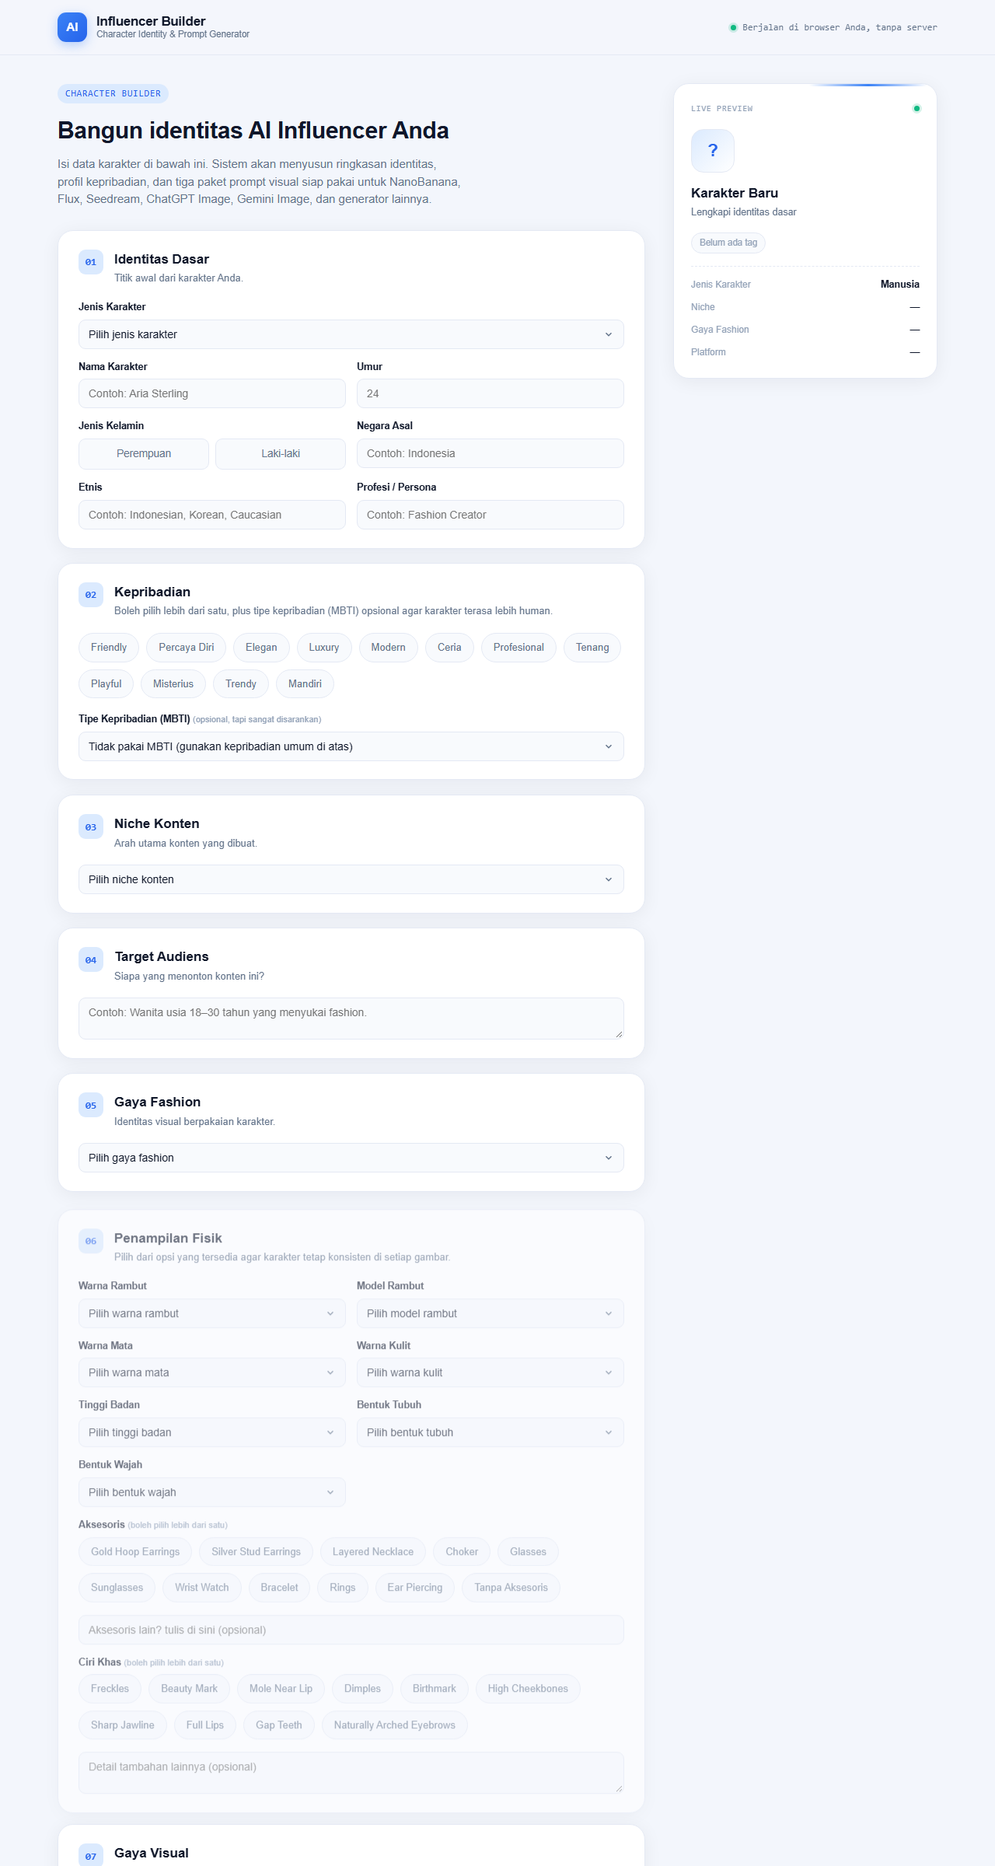
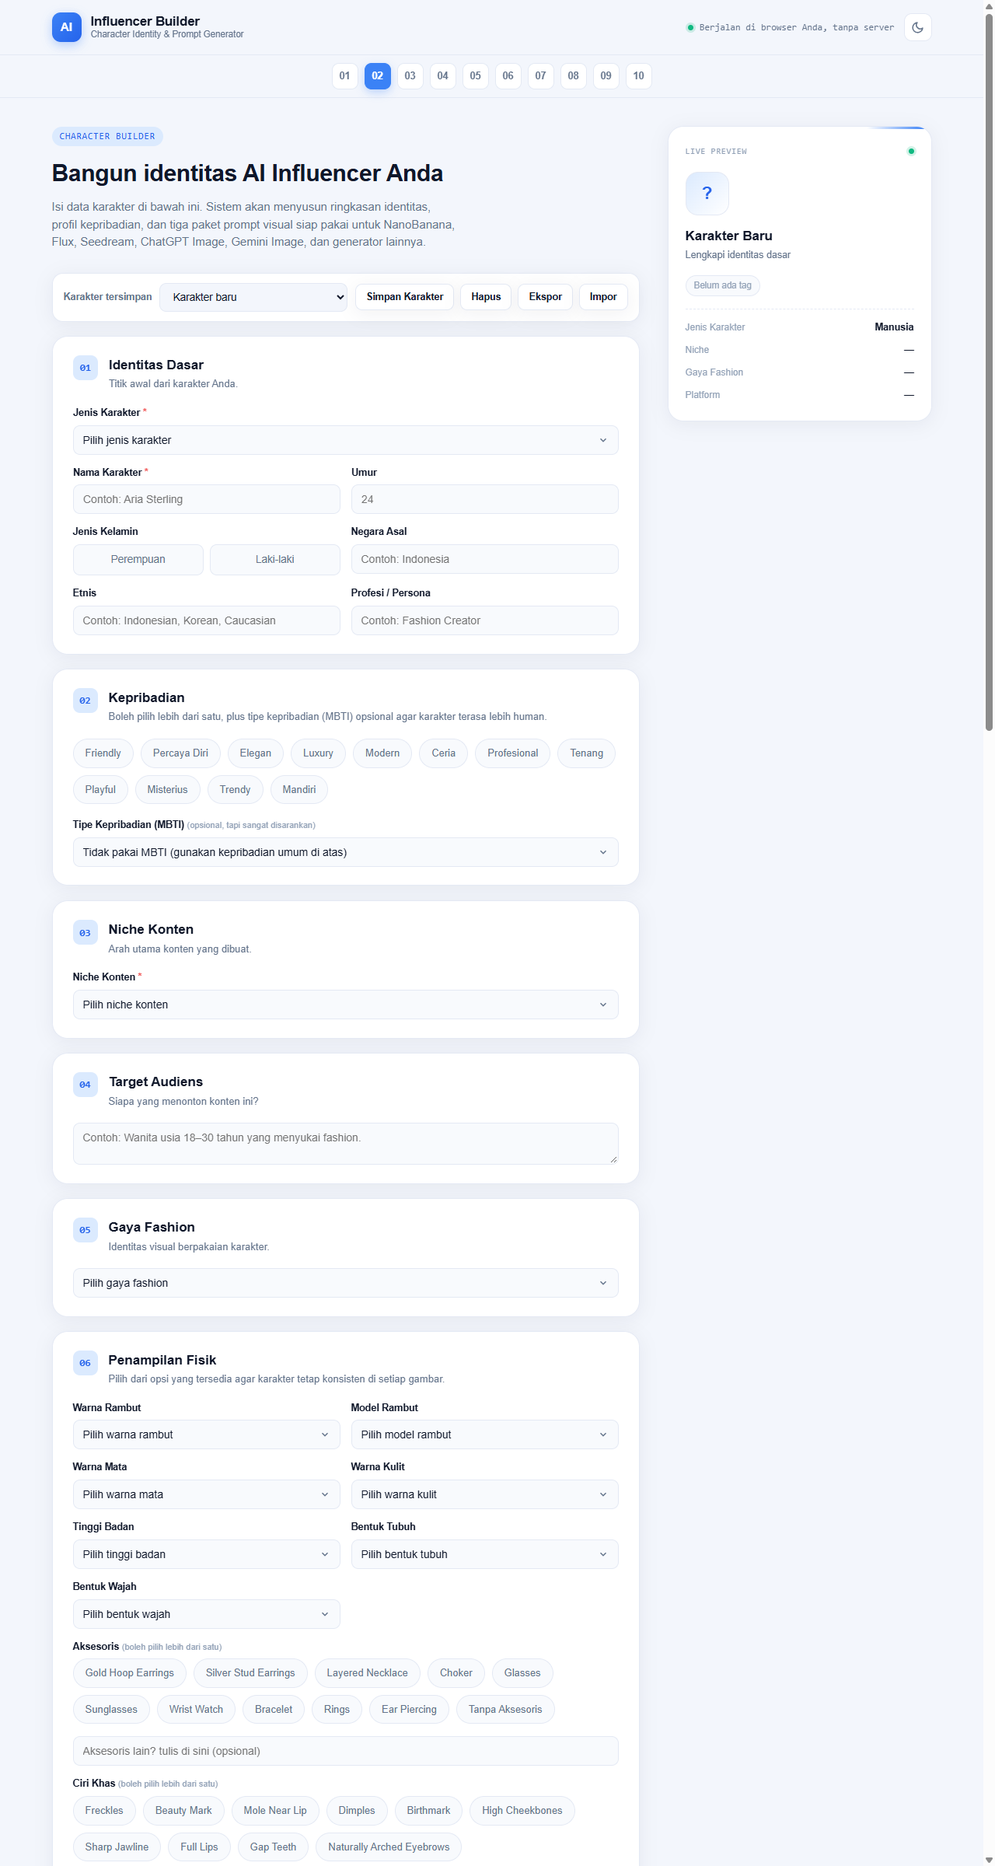
feat: UI/UX improvements - autosave, validation, navigation, dark mode, profiles

diff --git a/docs/superpowers/plans/2026-11-25-ui-ux-improvements.md b/docs/superpowers/plans/2026-11-25-ui-ux-improvements.md
@@ -1,0 +1,270 @@
+# UI/UX Improvements Implementation Plan
+
+> **For agentic workers:** REQUIRED SUB-SKILL: Use superpowers:subagent-driven-development (recommended) or superpowers:executing-plans to implement this plan task-by-task. Steps use checkbox (`- [ ]`) syntax for tracking.
+
+**Goal:** Add autosave+reset, validation, section navigation, dark mode, and multi-character profiles to the single-file `index.html` app.
+
+**Architecture:** Patch `index.html` in place: one `AIB` namespace in the existing inline script, small HTML additions (Reset button, step bar, mobile nav, profile bar, theme toggle), CSS variable overrides for dark mode. Tests live in a new `tests.html` that loads `index.html` in an iframe and asserts against its DOM/localStorage; run headless Chrome with `--dump-dom`.
+
+**Tech Stack:** Vanilla HTML/CSS/JS in one file. No framework, no npm, no build step. Tests: headless Chrome only.
+
+**Spec:** `docs/superpowers/specs/2026-11-25-ui-ux-improvements-design.md`
+
+## Global Constraints
+
+- Single `index.html`; must run from `file://` (fonts from `./AI Influencer Builder_files/`). No modules, no fetch of local files without `--allow-file-access-from-files`.
+- Test command (all tasks): `& 'C:\Program Files\Google\Chrome\Application\chrome.exe' --headless --allow-file-access-from-files --dump-dom file:///C:/Users/david/AIInfluencerBuilder/tests.html` — pass = output contains `ALL PASS`, fail = a `FAIL ` line.
+- Storage keys verbatim: `aib_state_v1`, `aib_current_profile`, `aib_profiles_v1`, `aib_theme`.
+- Autosave debounce: 400 ms.
+- Required fields verbatim: `#charName`, `#charTypeSelect`, `#nicheSelect`.
+- Existing selectors kept: `#builderForm`, `#generateBtn`, `.form-section` (ids `section1`..`section10`), `#resultsSection`, `#previewName`.
+- UI copy Indonesian. Every storage write wrapped so a throw shows one toast (`Autosave tidak tersedia di browser ini`) and disables that feature for the session — never breaks the page.
+- `AIB` namespace (single global object) holds all new functions; existing functions untouched except where a step names them.
+
+## Review Focus
+
+1. **localStorage unavailable (private mode)** — autosave/profiles must degrade with one toast, page fully usable. Test in Task 2 (`autosave: storage failure degrades, no throw`).
+2. **Section 06 hidden for non-human characters** — step bar must skip it and count visible sections only. Test in Task 4 (`nav: hidden section 06 skipped, count is 9`).
+3. **Profile switch must flush current edits, and reload restores working state over profile snapshot** — data-loss risk. Tests in Task 6 (`profile: switch flushes edits` and `profile: reload restores working state`).
+4. **Reset must never delete saved profiles** — destructive action. Test in Task 2 (`reset: keeps saved profiles`).
+5. **Dark mode freezes at user choice after toggle** — no longer follows system. Test in Task 5 (`theme: choice persists across reload, system light ignored`).
+
+---
+
+### Task 1: Test harness
+
+**Files:**
+- Create: `tests.html`
+
+**Interfaces:**
+- Produces: test API used by every later task — `t(name, fn)` registers a test (fn may return a Promise), `assert(cond, msg)`, `assertEq(actual, expected, msg)`, `withFreshPage(fn)` reloads the `index.html` iframe and runs `fn(iframeWindow)` after `AIB` is ready. Runner writes one line per test to `#results` (`PASS <name>` / `FAIL <name>: <msg>`), then `ALL PASS (n)` or `FAILURES (n)`.
+
+- [ ] **Step 1: Write `tests.html`**
+
+Iframe `src="index.html"`, poll until `iframe.contentWindow.AIB && iframe.contentWindow.document.readyState === 'complete'`, then run registered tests sequentially in the iframe's window context. One smoke test: `t('smoke: page loads with form', ...)` asserting `iframe.contentWindow.document.querySelector('#builderForm')` and `#generateBtn` exist.
+
+- [ ] **Step 2: Run harness**
+
+Run the Global Constraints test command. Expected: `ALL PASS (1)`.
+
+- [ ] **Step 3: Commit**
+
+```bash
+git add tests.html
+git commit -m "test: add browser test harness"
+```
+
+---
+
+### Task 2: Autosave + Reset
+
+**Files:**
+- Modify: `index.html` (inline `<script>` after `init()`, form header markup, CSS)
+- Test: `tests.html`
+
+**Interfaces:**
+- Produces (all on global `AIB`): `AIB.getState()` → object|null, `AIB.setState(state)` → void, `AIB.saveState()` → void (immediate write of current form to `aib_state_v1`), `AIB.scheduleSave()` → void (400 ms debounce), `AIB.resetForm()` → void (clears form controls to defaults, removes `aib_state_v1`, clears output card bodies, hides `#resultsSection`). Reset button id `resetBtn`, placed in the form header next to `#generateBtn`.
+
+- [ ] **Step 1: Write failing tests in `tests.html`**
+
+- `autosave: input writes aib_state_v1 after debounce` — set `#charName` value in iframe, wait 600 ms, assert `localStorage.getItem('aib_state_v1')` contains that value.
+- `autosave: reload restores state` — `withFreshPage`: set `#charName`, wait 600 ms, `withFreshPage` again, assert input value restored and preview name updated.
+- `reset: clears form, state key, and outputs` — set `#charName`, save state, click `#resetBtn` (confirm stubbed to return true), assert input empty, `localStorage.getItem('aib_state_v1')` null, output card `pre` bodies empty.
+- `reset: keeps saved profiles` — write a profile object to `aib_profiles_v1`, click `#resetBtn`, assert profile still present in `aib_profiles_v1`.
+- `autosave: storage failure degrades, no throw` — replace `Storage.prototype.setItem` with a thrower in the iframe, type into `#charName`, assert no exception escapes and the toast element is visible exactly once.
+
+- [ ] **Step 2: Run tests to verify they fail**
+
+Run test command. Expected: `FAIL autosave: ...` lines (AIB/state functions undefined).
+
+- [ ] **Step 3: Implement in `index.html`**
+
+Add `AIB` namespace with the five functions; wire `input`/`change` listeners on `#builderForm` → `AIB.scheduleSave()`; call `AIB.setState(...)` restore inside existing `init()` before `updateLivePreview()`; add `#resetBtn` markup + `confirm()` + toast; wrap `localStorage.setItem` in a try/catch that toasts once and sets a session flag disabling further saves.
+
+- [ ] **Step 4: Run tests to verify they pass**
+
+Run test command. Expected: `ALL PASS` including the five new tests.
+
+- [ ] **Step 5: Commit**
+
+```bash
+git add index.html tests.html
+git commit -m "feat: add autosave and reset"
+```
+
+---
+
+### Task 3: Validation
+
+**Files:**
+- Modify: `index.html` (`#generateBtn` click path, field markup, CSS)
+- Test: `tests.html`
+
+**Interfaces:**
+- Produces: `AIB.validate()` → `{ok: boolean, firstInvalid: HTMLElement|null}`. Error elements: `<p class="field-error" id="charNameError">`, `charTypeError`, `nicheError` (empty, `hidden` by default). Required fields get `aria-required="true"` and a `*` in their `<label>`.
+
+- [ ] **Step 1: Write failing tests**
+
+- `validation: required markers present` — `#charName`, `#charTypeSelect`, `#nicheSelect` each have `aria-required="true"` and a visible `*` in the associated label.
+- `validation: empty required blocks generate` — clear all three, stub `confirm`, click `#generateBtn`, assert `#charNameError` visible, `#charName` is `document.activeElement`, `#resultsSection` unchanged (its textContent equals before-click snapshot).
+- `validation: error clears on input` — after the failing case, type into `#charName`, assert `#charNameError` hidden.
+- `validation: valid form passes` — fill the three fields, assert `AIB.validate().ok === true` and `firstInvalid === null`.
+
+- [ ] **Step 2: Run tests to verify they fail**
+
+Expected: marker/behavior FAILs.
+
+- [ ] **Step 3: Implement in `index.html`**
+
+Add `*` + `aria-required` to the three labels; add the three error `<p>` elements after their fields; add `AIB.validate()`; prepend a check to the existing `#generateBtn` click handler: if `!AIB.validate().ok` → focus `firstInvalid`, show its error, toast `Lengkapi field wajib dulu`, and return without generating; clear error on `input` in the field.
+
+- [ ] **Step 4: Run tests to verify they pass**
+
+Expected: `ALL PASS`.
+
+- [ ] **Step 5: Commit**
+
+```bash
+git add index.html tests.html
+git commit -m "feat: add required-field validation"
+```
+
+---
+
+### Task 4: Section navigation
+
+**Files:**
+- Modify: `index.html` (markup after `.site-header`, CSS, JS)
+- Test: `tests.html`
+
+**Interfaces:**
+- Produces: `AIB.visibleSections()` → `HTMLElement[]` (`.form-section` without `.hidden`); `AIB.initSectionNav()` → void. Markup: `<nav class="step-bar" id="stepBar">` with one `<button class="step-pill" data-target="sectionN">NN</button>` per visible section, inserted after `.site-header`; `<div class="mobile-nav" id="mobileNav">` with `#prevSectionBtn`, `#nextSectionBtn`, `#sectionCount` (text `Bagian N dari M`), fixed bottom, shown only under 600 px.
+
+- [ ] **Step 1: Write failing tests**
+
+- `nav: pill count equals visible sections` — default (human) → 10 pills, `#sectionCount` text `Bagian 1 dari 10`.
+- `nav: hidden section 06 skipped, count is 9` — set `#charTypeSelect` to a non-human value (the value that triggers `section6` hidden), assert 9 pills, no pill with `data-target="section6"`, count text `dari 9`.
+- `nav: click pill scrolls and activates` — click pill for `section3`, assert active class on that pill and `#section3` bounding rect top within 120 px of viewport top after scroll settles.
+- `nav: prev/next move between sections` — click `#nextSectionBtn`, assert active target advances by one and count text updates.
+
+- [ ] **Step 2: Run tests to verify they fail**
+
+Expected: no `#stepBar` → FAILs.
+
+- [ ] **Step 3: Implement in `index.html`**
+
+Build pills from `AIB.visibleSections()`; IntersectionObserver (rootMargin `-40% 0px -55% 0px`) sets `.active`; pill click → `scrollIntoView({behavior:'smooth', block:'start'})`; prev/next clamp at ends and update `#sectionCount`; re-run pill build when character type changes (hook the existing type-change path that toggles `section6`).
+
+- [ ] **Step 4: Run tests to verify they pass**
+
+Expected: `ALL PASS`.
+
+- [ ] **Step 5: Commit**
+
+```bash
+git add index.html tests.html
+git commit -m "feat: add section step navigation"
+```
+
+---
+
+### Task 5: Dark mode
+
+**Files:**
+- Modify: `index.html` (header markup, CSS `[data-theme=dark]` overrides, JS)
+- Test: `tests.html`
+
+**Interfaces:**
+- Produces: `AIB.toggleTheme()` → void; `AIB.currentTheme()` → `'light'|'dark'`. Header button `#themeToggle` with sun/moon SVG. `data-theme` on `<html>`. Key `aib_theme`.
+
+- [ ] **Step 1: Write failing tests**
+
+- `theme: first visit matches system` — delete `aib_theme`, reload, assert `document.documentElement.dataset.theme` equals (`matchMedia('(prefers-color-scheme: dark)').matches ? 'dark' : 'light'`).
+- `theme: toggle sets dark and persists` — click `#themeToggle`, assert `data-theme="dark"` and `localStorage.aib_theme === 'dark'`.
+- `theme: choice persists across reload, system light ignored` — with `aib_theme='dark'` set, `withFreshPage`, assert `data-theme` still `dark` (headless default is light).
+- `theme: dark palette applied` — in dark, assert computed `background-color` of `body` differs from the light value and `--ink` variable resolves to the dark hex.
+
+- [ ] **Step 2: Run tests to verify they fail**
+
+Expected: FAILs (no `data-theme` logic yet).
+
+- [ ] **Step 3: Implement in `index.html`**
+
+On load: `aib_theme` if present, else `matchMedia` result, write to `<html data-theme>`; register a `matchMedia('(prefers-color-scheme: dark)').change` listener that only applies while `aib_theme` is absent; `#themeToggle` flips theme, persists, updates icon; add `[data-theme=dark]{...}` CSS variable overrides for `--bg`, `--surface`, `--surface-alt`, `--ink`, `--ink-muted`, `--ink-faint`, `--border`, `--shadow`, plus header background rgba.
+
+- [ ] **Step 4: Run tests to verify they pass**
+
+Expected: `ALL PASS`.
+
+- [ ] **Step 5: Commit**
+
+```bash
+git add index.html tests.html
+git commit -m "feat: add dark mode toggle"
+```
+
+---
+
+### Task 6: Multi-character profiles
+
+**Files:**
+- Modify: `index.html` (profile bar markup above `#builderForm`, CSS, JS)
+- Test: `tests.html`
+
+**Interfaces:**
+- Produces: `AIB.profiles.list()` → `[{id,name,savedAt,state}]`; `AIB.profiles.saveNew(name)` → profile (duplicates current form state, sets `aib_current_profile`); `AIB.profiles.load(id)` → void (flush current via `AIB.saveState()` first, set state into form, set `aib_current_profile`); `AIB.profiles.remove(id)` → void; `AIB.profiles.exportJSON()` → string; `AIB.profiles.importJSON(text)` → `{added:number, updated:number}`. Markup: `#profileBar` above the form with `#profileSelect`, `#saveProfileBtn`, `#deleteProfileBtn`, `#exportProfileBtn`, `#importProfileBtn` + hidden `<input type="file" id="importFile" accept=".json">`. Auto-update: the same debounced save writes into the active profile's `state` when `aib_current_profile` is set.
+
+- [ ] **Step 1: Write failing tests**
+
+- `profile: save new creates profile and activates it` — set `#charName='Aria'`, click `#saveProfileBtn` (prompt stub returns 'Aria'), assert one profile in `aib_profiles_v1` with `state` containing `Aria`, `aib_current_profile` set, `#profileSelect` shows it.
+- `profile: switch flushes edits` — save profile A, edit `#charName='Beta'`, switch to profile B (create second first), switch back to A, assert A's stored state has `Beta`.
+- `profile: reload restores working state` — with `aib_state_v1` containing `Gamma` and an active profile whose state differs, `withFreshPage`, assert form shows `Gamma`.
+- `profile: export/import round-trip` — `exportJSON()` parses to an array of 2; `importJSON` of a payload with one new + one existing id returns `{added:1, updated:1}` and storage holds 3 (or 2 updated) — assert exact counts from the test's own fixture.
+- `profile: delete removes only that profile` — two profiles, delete one, assert the other intact and `aib_current_profile` cleared if it pointed at the deleted one.
+
+- [ ] **Step 2: Run tests to verify they fail**
+
+Expected: FAILs (`AIB.profiles` undefined).
+
+- [ ] **Step 3: Implement in `index.html`**
+
+Implement the six `AIB.profiles` functions on top of `AIB.getState()`/`AIB.setState()` from Task 2; extend the debounced save to also write the active profile's `state`; render `#profileBar`; wire buttons (`prompt()` for new-profile name, `confirm()` for delete, `Blob`+`URL.createObjectURL` for export, `FileReader` for import).
+
+- [ ] **Step 4: Run tests to verify they pass**
+
+Expected: `ALL PASS`.
+
+- [ ] **Step 5: Commit**
+
+```bash
+git add index.html tests.html
+git commit -m "feat: add multi-character profiles"
+```
+
+---
+
+### Task 7: Final QA and docs
+
+**Files:**
+- Modify: `screenshot.png`, `README.md`
+- Test: `tests.html` (full suite), manual screenshots
+
+- [ ] **Step 1: Run full test suite**
+
+Run test command. Expected: `ALL PASS` with all tasks' tests.
+
+- [ ] **Step 2: Manual smoke in real Chrome**
+
+Open `index.html` from `file://`: fill form, verify autosave toast-free, toggle dark mode, save/switch a profile, generate prompts. Check mobile width 375 px: bottom nav bar present, step bar hidden.
+
+- [ ] **Step 3: Refresh README screenshot**
+
+Headless Chrome screenshot at 1280×2400 (light) replacing `screenshot.png`; optionally add a dark-mode shot `screenshot-dark.png` and reference both in README.
+
+- [ ] **Step 4: Commit and push**
+
+```bash
+git add -A
+git commit -m "feat: UI/UX improvements - autosave, validation, navigation, dark mode, profiles"
+git push
+```

diff --git a/docs/superpowers/specs/2026-11-25-ui-ux-improvements-design.md b/docs/superpowers/specs/2026-11-25-ui-ux-improvements-design.md
@@ -1,0 +1,92 @@
+# Design: UI/UX Improvements — AI Influencer Builder
+
+Date: 2026-11-25
+Repo: antonocik/AIInfluencerBuilder
+Scope: `index.html` (single-file HTML app, 5.591 lines, no build tooling)
+
+## Intent and why
+
+`index.html` is a one-page form builder: user fills 10 sections (identity, personality, niche, audience, fashion, physical, visual, content type, platforms, goals), gets a live preview card, and 5 output cards (summary, personality profile, master/closeup/fullbody prompts) with copy/download. Today it loses all form data on refresh, has no validation, no way to keep more than one character, and no dark mode. Users filling long forms repeatedly need persistence, guidance, and control.
+
+## Goals
+
+1. **Autosave** — form state persists across refresh/close; Reset button clears it.
+2. **Validation** — required fields marked, inline errors, Generate blocked when required fields empty.
+3. **Section navigation** — step indicator 01–10 with active highlighting; mobile prev/next bar.
+4. **Dark mode** — toggle in header, follows system preference on first visit, persists.
+5. **Multi-character profiles** — save, switch, delete named profiles; import/export JSON.
+
+## Non-goals
+
+- No backend, accounts, or auth.
+- No change to prompt-generation logic or output text.
+- No visual redesign; keep current light-theme look as the base.
+- No framework, no build step, no npm. Stays a single `index.html` + `AI Influencer Builder_files/`.
+- No multi-language; UI copy stays Indonesian.
+
+## Constraints
+
+- Must run from `file://` (fonts loaded from local `./AI Influencer Builder_files/css2`).
+- `localStorage` can be unavailable (private mode, quota). Features must degrade: warn once via toast, never break the page.
+- Keep existing behavior: chips/multi-select, character-type (human/non-human) logic, accordions, copy buttons, progress animation, reduced-motion respect.
+- Existing screenshot in README will need a refresh only if the visible layout changes.
+
+## Approaches considered
+
+| Approach | Trade-off | Decision |
+|---|---|---|
+| A. Patch `index.html` in place | Matches current architecture, zero deps, `file://` works, diff stays reviewable | **Chosen** |
+| B. Split CSS/JS into separate files | Cleaner files, but breaks the saved-page portability and doubles the diff surface | Rejected |
+| C. Rewrite with React/Vite | Overkill for a form tool; adds build tooling the repo has none of | Rejected |
+
+## Design details
+
+### 1. Autosave
+
+- Storage key `aib_state_v1`: a snapshot of every form control (text inputs, textareas, selects, radios, checkboxes, chip selections, character type).
+- Debounced save (400 ms) on `input`/`change`.
+- On page load: restore state, then run existing `initFields()` + `updateLivePreview()`.
+- **Reset button** in the form header: `confirm()` dialog, then clear `aib_state_v1`, clear the form to defaults, toast "Form direset".
+- If storage throws (quota/private mode): show one toast "Autosave tidak tersedia di browser ini", disable autosave for the session, page keeps working.
+
+### 2. Validation
+
+- Required: **Nama Karakter**, **Jenis Karakter**, **Niche Konten**. Everything else optional.
+- Required labels get `*` and `aria-required="true"`.
+- On Generate click: check required fields; if any empty → focus first invalid field, inline error text under it, toast "Lengkapi field wajib dulu".
+- Error clears on input in that field.
+
+### 3. Section navigation
+
+- Sticky step bar directly under the site header: 10 numbered pills (01–10) matching the section titles. Click scrolls to that section; active pill highlights while scrolling (IntersectionObserver).
+- Under 600 px: bottom-fixed bar with "Sebelumnya" / "Berikutnya" buttons and "Bagian N dari 10" label; scrolls to adjacent section.
+- Existing `scroll-behavior: smooth` stays.
+
+### 4. Dark mode
+
+- `<html data-theme="light|dark">`.
+- Toggle button in header (sun/moon SVG), persists to `aib_theme`.
+- First visit: match `prefers-color-scheme`.
+- Dark palette defined as CSS variable overrides under `[data-theme=dark]` (bg, surface, ink, ink-muted, border, shadows, chips, output cards). No other markup changes.
+
+### 5. Multi-character profiles
+
+- Storage key `aib_profiles_v1`: `[{id, name, savedAt, state}]` — same `state` shape as autosave.
+- Profile bar above the form: selector dropdown + "Simpan profil baru" + delete.
+- Switching a profile loads its state into the form (and becomes the autosave target).
+- **Export**: download all profiles as `aib-profiles.json`.
+- **Import**: file input; merge by `id` (imported wins on conflict), toast with counts.
+- Flow with no saved profile stays exactly as today.
+
+## Decisions (settled)
+
+- **Storage schema**: `aib_state_v1` = current working form state; `aib_current_profile` = id of active profile (or null); `aib_profiles_v1` = `[{id,name,savedAt,state}]`. On load, `aib_state_v1` wins (refresh restores unsaved edits, not a stale profile snapshot).
+- **Profile auto-update**: edits write into the active profile (same debounced save path as autosave). "Simpan profil baru" duplicates the current form as a new profile. Switching profiles flushes the current one first.
+- **Step bar vs hidden section**: pills render only for visible sections (section 06 "Penampilan Fisik" is hidden for non-human characters → skipped); count and "Bagian N dari M" use the visible count.
+- **Reset semantics**: clears the form, `aib_state_v1`, and the output cards. Saved profiles are never deleted by Reset.
+- **Dark mode**: follows `prefers-color-scheme` until the user toggles; then the choice persists and no longer follows the system.
+- **No `localStorage`**: autosave disabled and profile bar hidden; one toast, page fully usable.
+
+## What's left to the builder
+
+Exact CSS values, SVG icons, Indonesian wording for toasts/errors/labels, and final placement of the profile bar and step bar. Anything not specified here is the builder's call.

diff --git a/README.md b/README.md
@@ -6,9 +6,21 @@ Halaman tunggal untuk membangun identitas AI Influencer. Buat profil influencer 
 
 ![AI Influencer Builder](screenshot.png)
 
+Mode gelap:
+
+![AI Influencer Builder mode gelap](screenshot-dark.png)
+
 ## Cara pakai
 
 Buka `index.html` di browser. Isi form di halaman, hasilnya langsung muncul di bagian bawah.
+
+Fitur:
+
+- **Autosave** — isi form tersimpan otomatis (debounce 400 ms) dan pulih saat halaman dimuat ulang.
+- **Validasi** — tiga field wajib (jenis karakter, nama, niche) ditandai `*`; Generate terblokir sampai terisi.
+- **Navigasi bagian** — pill nomor bagian di bawah header (desktop) dan tombol Sebelumnya/Berikutnya di bawah (mobile).
+- **Mode gelap** — tombol di header, mengikuti preferensi sistem saat pertama dibuka.
+- **Beberapa karakter** — simpan, ganti, hapus, ekspor, dan impor profil karakter (JSON).
 
 ## Struktur halaman
 
